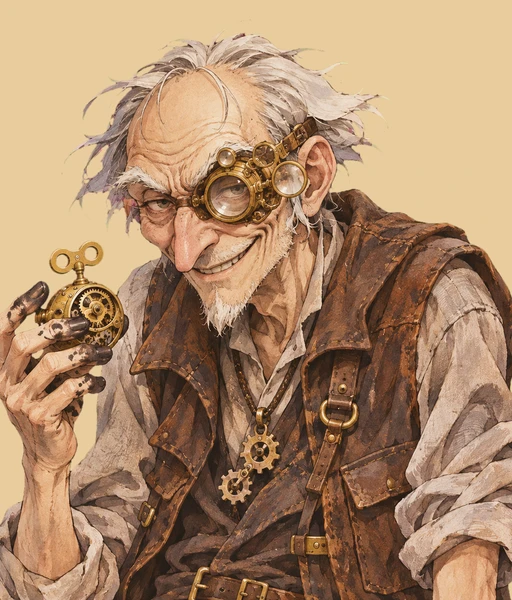
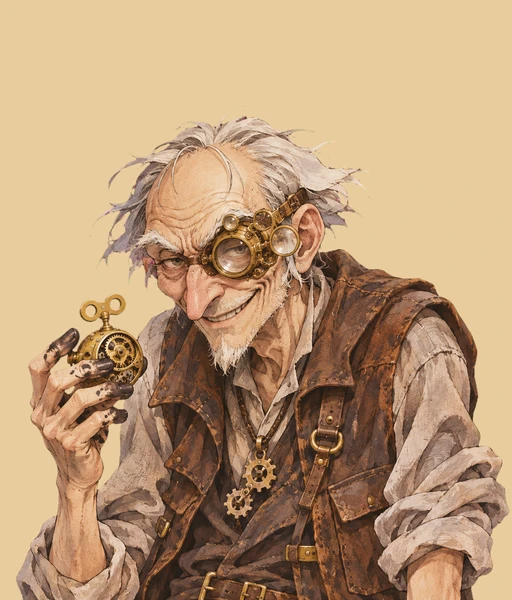
feat(autelia): 도편수 제페토 초상화·전신 반영, 초상화 변환을 전체 구도 보존으로 변경
Claude-Session: https://claude.ai/code/session_01W6D73M7pUg1TDAZy6DgM2B

diff --git a/tools/art/magenta.py b/tools/art/magenta.py
@@ -31,9 +31,10 @@ def portrait(src, out, bg=(233, 204, 157), size=(512, 600)):
     im = key(Image.open(src))
     w, h = size
     s = Image.new("RGB", im.size, bg); s.paste(im, (0, 0), im)
-    # 정사각 원본 -> 512x600 비율(가로 줄이기): 중앙 크롭
-    cw = round(s.height * w / h); x0 = (s.width - cw) // 2
-    s = s.crop((x0, 0, x0 + cw, s.height)).resize(size, Image.LANCZOS)
+    # 정사각 원본을 가로폭에 맞춰 전체가 보이게 축소하고 아래에 붙임(위 남는 부분은 배경색)
+    k = w / s.width; sc = s.resize((w, round(s.height * k)), Image.LANCZOS)
+    canvas = Image.new("RGB", size, bg); canvas.paste(sc, (0, h - sc.height))
+    s = canvas
     s.save(out, quality=90)
     return s
 
